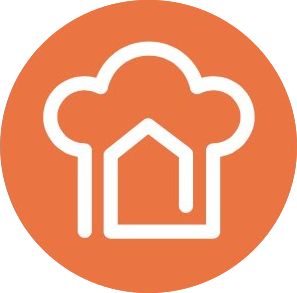
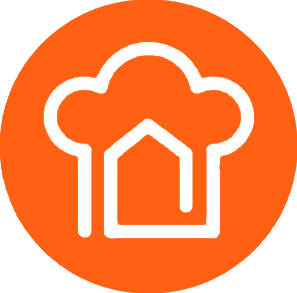
serve admin build folder

diff --git a/src/components/Header.js b/src/components/Header.js
@@ -36,28 +36,28 @@ class Header extends Component {
                                         <Link to="/login" onClick={toggleMenu} >
                                             <button className="btn navbar-btn nav-link nav-link-white">
                                                 Login
-                                        </button>
+                                            </button>
                                         </Link>
                                     </li>
                                     <li>
                                         <Link to="/register" onClick={toggleMenu}>
                                             <button className="btn navbar-btn nav-link nav-link-white">
                                                 Register
-                                        </button>
+                                            </button>
                                         </Link>
                                     </li>
                                     <li>
                                         <a href="#contact" onClick={toggleMenu}>
                                             <button className="btn navbar-btn nav-link nav-link-grey">
                                                 Contact
-                                        </button>
+                                            </button>
                                         </a>
                                     </li>
                                     <li>
                                         <Link to="/register" onClick={toggleMenu}>
                                             <button className="btn navbar-btn nav-link nav-link-orange">
                                                 Create listing
-                                        </button>
+                                            </button>
                                         </Link>
                                     </li>
                                 </ul>
@@ -67,21 +67,21 @@ class Header extends Component {
                                         <Link to="/dashboard" onClick={toggleMenu}>
                                             <button className="btn navbar-btn nav-link nav-link-grey">
                                                 Dashboard
-                                        </button>
+                                            </button>
                                         </Link>
                                     </li>
                                     <li>
                                         <a href="#contact" onClick={toggleMenu}>
                                             <button className="btn navbar-btn nav-link nav-link-grey">
                                                 Contact
-                                        </button>
+                                            </button>
                                         </a>
                                     </li>
                                     <li>
                                         <Link to={this.props.kitchen.id ? `/updatekitchen` : "/registerkitchen"}
                                             onClick={toggleMenu}>
                                             <button className="btn navbar-btn nav-link nav-link-orange">
-                                                {this.props.kitchen.id ? "Edit listing" : "Create listing"}
+                                                {this.props.kitchen.id ? "J’édite mon annonce" : "Je loue ma cuisine"}
                                             </button>
                                         </Link>
                                     </li>

diff --git a/src/styles/header.css b/src/styles/header.css
@@ -1,7 +1,3 @@
-nav {
-    box-shadow: 0 0 0 0 rgba(0, 0, 0, 0), 0 5px 5px 0 rgba(0, 0, 0, 0.40);
-}
-
 .navbar.navbar-fixed-top {
     background-color: #fff;
     border-color: #fff;
@@ -28,7 +24,6 @@ nav {
     border: solid 1px #484848;
     color: #484848;
     background-color: #fff;
-    box-shadow: 0 0 20px 0 rgba(0, 0, 0, 0.2), 0 3px 3px 0 rgba(0, 0, 0, 0.40);
 }
 
 .nav-link:hover {
@@ -49,14 +44,14 @@ nav {
 
 .nav-link-orange,
 .nav-link-orange:focus {
-    background-color: #ed7b22;
+    background-color: #ff6114;
     color: #fff;
-    border: solid 1px #ed7b22;
+    border: solid 1px #ff6114;
 }
 
 .nav-link-orange:hover {
     background-color: #fff;
-    color: #ed7b22;
+    color: #ff6114;
 }
 
 @media screen and (max-width: 600px) {
@@ -66,11 +61,11 @@ nav {
         border-radius: 0;
         width: 100%;
         text-align: left;
-        background-color: #ed7b22;
+        background-color: #ff6114;
         color: #fff;
     }
     .nav-link:hover {
-        color: #ed7b22;
+        color: #ff6114;
         background-color: #fff;
     }
     .navbar-right>li>a {

diff --git a/src/styles/home.css b/src/styles/home.css
@@ -16,21 +16,21 @@
 
 .home-block-2 {
     background-color: #fff;
-    color: #ed7b22;
+    color: #ff6114;
     margin: 0;
     padding: 50px;
 }
 
 .home-block-3 {
     background-color: #f0f3f5;
-    color: #ed7b22;
+    color: #ff6114;
     margin: 0;
     padding: 50px;
 }
 
 .home-block-4 {
     background-color: #fff;
-    color: #ed7b22;
+    color: #ff6114;
     margin: 0;
     margin-bottom: -50px;
     padding: 50px 0;
@@ -82,9 +82,9 @@
     cursor: pointer;
     padding: 10px 10px;
     outline: 0;
-    border: 2px solid #ed7b22;
+    border: 2px solid #ff6114;
     border-radius: 10px;
-    background: #ed7b22;
+    background: #ff6114;
     color: #ffffff;
     -webkit-appearance: none;
     -moz-appearance: none;
@@ -96,7 +96,7 @@
 
 .select select:hover,
 .select select:focus {
-    color: #ed7b22;
+    color: #ff6114;
     background: #ffffff;
 }
 

diff --git a/src/styles/forms.css b/src/styles/forms.css
@@ -1,14 +1,3 @@
-.form-container,
-.dashoard-container,
-.images-container {
-    max-width: 900px;
-    width: 100%;
-    margin: 50px auto;
-    background: #F9F9F9;
-    padding: 20px;
-    box-shadow: 0 0 20px 0 rgba(0, 0, 0, 0.2), 0 5px 5px 0 rgba(0, 0, 0, 0.24);
-}
-
 .images-container {
     margin: 20px auto;
     padding: 10px;
@@ -92,19 +81,6 @@ label {
     justify-content: center;
 }
 
-.btn-orange,
-.btn-orange:focus {
-    background-color: #ed7b22;
-    border-color: #ed7b22;
-    font-weight: bold;
-    color: #fff;
-}
-
-.btn-orange:hover {
-    background-color: #fff;
-    color: #ed7b22;
-}
-
 #submit {
     width: 100%;
     margin: auto;
@@ -124,7 +100,7 @@ label {
 }
 
 .react-form-message-success {
-    color: #ed7b22;
+    color: #ff6114;
 }
 
 .react-form-control>input[type="checkbox"],

diff --git a/src/styles/App.css b/src/styles/App.css
@@ -6,7 +6,6 @@
     margin: 50px auto;
     background: #F9F9F9;
     padding: 20px;
-    box-shadow: 0 0 20px 0 rgba(0, 0, 0, 0.2), 0 5px 5px 0 rgba(0, 0, 0, 0.24);
 }
 
 main {
@@ -22,5 +21,19 @@ input {
 }
 
 .btn {
-    box-shadow: 0 0 20px 0 rgba(0, 0, 0, 0.2), 0 3px 3px 0 rgba(0, 0, 0, 0.40);
+    /* box-shadow: 0 0 20px 0 rgba(0, 0, 0, 0.2), 0 3px 3px 0 rgba(0, 0, 0, 0.40); */
+    border-radius: 0;
+}
+
+.btn-orange,
+.btn-orange:focus {
+    background-color: #ff6114;
+    border-color: #ff6114;
+    font-weight: bold;
+    color: #fff;
+}
+
+.btn-orange:hover {
+    background-color: #fff;
+    color: #ff6114;
 }

diff --git a/src/styles/browse.css b/src/styles/browse.css
@@ -23,8 +23,7 @@ listings {
     max-width: 800px;
     background: #F9F9F9;
     box-shadow: 5px 0 5px 5px rgba(0, 0, 0, 0.40), 0 5px 5px 0 rgba(0, 0, 0, 0.40);
-    border: 5px solid #484848;
-    border-radius: 10px;
+    border: 2px solid #484848;
 }
 
 .flex-thumb-container {
@@ -32,7 +31,6 @@ listings {
     margin: 20px 20px;
     display: inline-flex;
     justify-content: space-between;
-    border-radius: 10px;
 }
 
 .circle-container {

diff --git a/server.js b/server.js
@@ -13,6 +13,7 @@ app.use(compression())
 app.use(morgan('dev'))
 app.use(morgan(' - :date[clf] - :remote-addr'))
 app.use(express.static('build'))
+app.use(express.static('../cookwork-admin/build'))
 app.get('*', (req, res) => {
     res.sendFile(path.resolve(__dirname, 'build', 'index.html'));
 });

diff --git a/src/styles/footer.css b/src/styles/footer.css
@@ -1,7 +1,7 @@
 footer {
     height: 40px;
     margin-top: 50px;
-    background-color: #ed7b22;
+    background-color: #ff6114;
     color: #fff;
     text-align: center;
     padding: 7px;

diff --git a/src/components/Footer.js b/src/components/Footer.js
@@ -1,5 +1,5 @@
 import React from 'react';
-import '../styles/footer.css'
+import '../styles/footer.css';
 
 export default () => {
     return (

diff --git a/src/styles/dashboard.css b/src/styles/dashboard.css
@@ -17,6 +17,7 @@
 #logout:focus,
 #delete,
 #delete:focus {
+    background-color: red;
     width: 40%;
     font-weight: bold;
 }

diff --git a/src/styles/popup.css b/src/styles/popup.css
@@ -48,7 +48,7 @@
 }
 
 .popup .close:hover {
-    color: #ed7b22;
+    color: #ff6114;
 }
 
 .popup .content {
